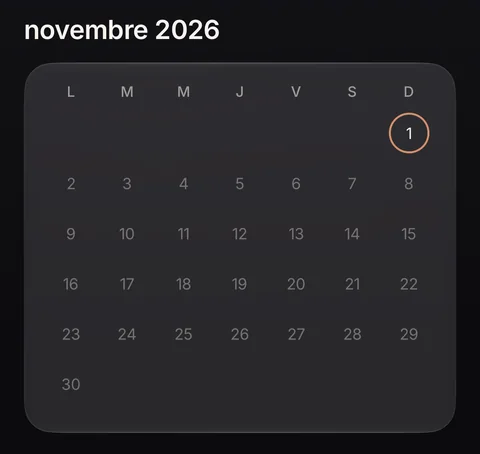
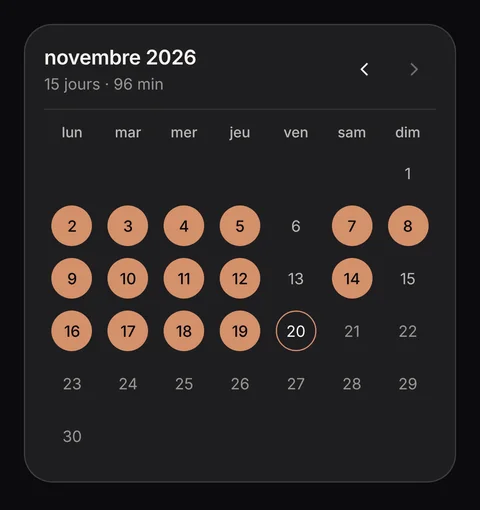
feat(site): étoiles sur les avis et calendrier du Profil avec des séances
Retouches demandées par le propriétaire après lecture de l'aperçu sur iPhone.

- Avis : cinq étoiles en émoji au-dessus de chaque avis et devant la note
  « 5,0 sur 5 · 8 notes » (exact : une moyenne de 5,0 sur huit notes impose
  huit notes de cinq étoiles) ; lues « 5 étoiles sur 5 » par les lecteurs
  d'écran.
- Calendrier (#suivi) : le calendrier vide est remplacé par une image
  reconstituée d'après le code de l'app 1.4.0 (MonthlyCalendar, CardHeader,
  carte de verre) : quinze jours de séance en disques sable, aujourd'hui
  entouré, « 15 jours · 96 min ». Données d'illustration ; générateur et
  rendu dans outils/calendrier-profil/, documentés dans CHIFFRES.md et le
  README ; preparer-images.py ne régénère plus l'ancien recadrage.

Vérifié : Lighthouse mobile 100/100/100/100, axe-core 0 violation (390 et
1440), html-validate 0 erreur, 0 erreur console ni violation CSP.

Claude-Session: https://claude.ai/code/session_01MU4jc2ubSSyuLZmNawkju8

diff --git a/index.html b/index.html
@@ -228,7 +228,7 @@
 </dl>
 </div>
 <div class="suivi__scene" role="group" aria-label="Deux vues de l’app">
-<figure class="volet volet--calendrier"><img src="/assets/img/calendrier-480.webp" srcset="/assets/img/calendrier-480.webp 480w, /assets/img/calendrier-720.webp 720w, /assets/img/calendrier-960.webp 960w" sizes="(min-width: 64rem) 30vw, 84vw" width="480" height="454" alt="Profil dans l’app&nbsp;: le calendrier de novembre 2026, aujourd’hui entouré." loading="lazy" decoding="async"></figure>
+<figure class="volet volet--calendrier"><img src="/assets/img/calendrier-480.webp" srcset="/assets/img/calendrier-480.webp 480w, /assets/img/calendrier-720.webp 720w, /assets/img/calendrier-960.webp 960w" sizes="(min-width: 64rem) 30vw, 84vw" width="480" height="510" alt="Profil dans l’app&nbsp;: le calendrier de novembre 2026, quinze jours de séance marqués d’un disque sable, aujourd’hui entouré." loading="lazy" decoding="async"></figure>
 <figure class="volet volet--rappels"><img src="/assets/img/rappels-480.webp" srcset="/assets/img/rappels-480.webp 480w, /assets/img/rappels-960.webp 960w" sizes="(min-width: 64rem) 26vw, 76vw" width="480" height="225" alt="Horaires des rappels dans l’app&nbsp;: rappel du matin 09:00, rappel du midi 13:00, rappel du soir 20:00." loading="lazy" decoding="async"></figure>
 </div>
 </div>
@@ -238,14 +238,16 @@
 <div class="conteneur avis__bloc">
 <h2 class="titre" id="titre-avis">Les avis sur l’App&nbsp;Store.</h2>
 <figure class="citation citation--grande" data-impeccable-ignore="tight-leading">
+<p class="etoiles"><span role="img" aria-label="5 étoiles sur 5">⭐⭐⭐⭐⭐</span></p>
 <blockquote><p>«&nbsp;Excellente application&nbsp;! Très intuitive, facile <span class="insecable">à utiliser</span> et vraiment pratique au quotidien.&nbsp;[…]&nbsp;»</p></blockquote>
 <figcaption>Rose88rjkg&nbsp;· avis <span class="groupe">App Store (France)&nbsp;· <span class="insecable">19 mai 2026</span></span></figcaption>
 </figure>
 <figure class="citation">
+<p class="etoiles"><span role="img" aria-label="5 étoiles sur 5">⭐⭐⭐⭐⭐</span></p>
 <blockquote><p>«&nbsp;On oublie de respirer de prendre le temps…&nbsp;»</p></blockquote>
 <figcaption>Wario513&nbsp;· extrait d’un avis <span class="groupe">App Store (France)&nbsp;· <span class="insecable">21 mai 2026</span></span></figcaption>
 </figure>
-<p class="avis__note num">5,0 sur 5&nbsp;· 8&nbsp;notes&nbsp;· App Store France&nbsp;· <span class="groupe">relevé le <span class="insecable">4 novembre 2026</span></span></p>
+<p class="avis__note num"><span class="etoiles etoiles--note" role="img" aria-label="5 étoiles sur 5">⭐⭐⭐⭐⭐</span> 5,0 sur 5&nbsp;· 8&nbsp;notes&nbsp;· App Store France&nbsp;· <span class="groupe">relevé le <span class="insecable">4 novembre 2026</span></span></p>
 <p class="avis__appel"><a class="appel" href="https://apps.apple.com/app/id6763119413">Télécharger Alvéo sur l’App&nbsp;Store<svg class="ico" aria-hidden="true"><use href="#fleche"/></svg></a></p>
 <p class="avis__mention">Avis et note publiés sur l’App Store (France), cités mot pour mot, en extrait&nbsp;; ils ne sont pas vérifiés par l’éditeur.</p>
 </div>

diff --git a/styles.css b/styles.css
@@ -475,6 +475,8 @@ button{margin:0;padding:0;border:0;background:none;color:inherit;font:inherit;cu
 .citation figcaption{margin-top:1rem;font-size:var(--t-petit);color:var(--texte-3)}
 .citation--grande{margin-top:1rem}
 .avis__note{font-size:var(--t-corps);color:var(--texte-1)}
+.etoiles{font-family:"Apple Color Emoji","Segoe UI Emoji","Noto Color Emoji",sans-serif;font-size:1.25rem;line-height:1;letter-spacing:.12em;margin-bottom:.875rem}
+.etoiles--note{display:inline-block;font-size:1em;letter-spacing:.06em;margin:0 .375rem 0 0;vertical-align:-.08em}
 .avis__appel{margin-top:-1rem}
 .avis__mention{font-size:var(--t-micro);line-height:1.5;color:var(--texte-3);max-width:52ch}
 @media (min-width:64rem){.avis__bloc{grid-template-columns:repeat(12,minmax(0,1fr));column-gap:var(--g)}.avis__bloc > .titre{grid-column:1/13}.citation--grande{grid-column:1/8;grid-row:2/5}.citation:not(.citation--grande){grid-column:8/13;grid-row:2;align-self:start;margin-top:1rem}.avis__note{grid-column:8/13;grid-row:3;align-self:end}.avis__appel{grid-column:8/13;grid-row:4;align-self:start;margin-top:0}.avis__mention{grid-column:1/8}}

diff --git a/outils/calendrier-profil/rendre.js b/outils/calendrier-profil/rendre.js
@@ -1,0 +1,12 @@
+// Rend calendrier.html (écrit par generer.py) en PNG à 3× : node rendre.js <dossier>
+const { chromium } = require('playwright');
+(async () => {
+  const b = await chromium.launch();
+  const p = await b.newPage({ viewport: { width: 402, height: 600 }, deviceScaleFactor: 3 });
+  await p.goto('file://' + process.argv[2] + '/calendrier.html');
+  await p.evaluate(() => document.fonts.ready);
+  const el = await p.$('#ecran');
+  await el.screenshot({ path: process.argv[2] + '/calendrier@3x.png' });
+  const box = await el.boundingBox(); console.log('taille css', box.width, box.height);
+  await b.close();
+})();

diff --git a/outils/calendrier-profil/generer.py b/outils/calendrier-profil/generer.py
@@ -1,0 +1,90 @@
+#!/usr/bin/env python3
+"""Calendrier du Profil (app 1.4.0) avec des jours de séance, pour #suivi.
+
+Reconstitution fidèle de components/profile/MonthlyCalendar.tsx, components/ui/CardHeader.tsx et de la
+carte de verre (components/ui/Card.tsx, GlassSurface « cardLg ») du dépôt de l'app : jour pratiqué = disque
+sable plein #D4906B, chiffre #0C0B0E en Inter 500 ; aujourd'hui = anneau sable de 1,5 pt ; jours passés sans
+séance en texte secondaire, futurs en tertiaire ; libellés « lun … dim » en Inter 500 12 pt ; rangées de 44 pt,
+disques de 34 pt ; titre « novembre 2026 » en Inter 600 17 pt, méta « N jours · M min » en tertiaire, chevrons
+lucide 18 pt (mois suivant estompé). Écran de 402 pt (iPhone), gouttière de 20 pt, fond #0C0B0E.
+Données d'illustration (aucune vraie donnée d'utilisateur) : aujourd'hui = vendredi 20 novembre 2026.
+
+Usage : python3 generer.py <dossier des TTF Inter de l'app> <dossier de sortie>
+  (TTF : node_modules/@expo-google-fonts/inter/{400Regular,500Medium,600SemiBold}/ dans le dépôt de l'app)
+puis : node rendre.js <dossier de sortie>  → calendrier@3x.png (1206 px de large), puis WebP 480/720/960
+(qualité 84) dans assets/img/calendrier-*.webp.
+"""
+import calendar
+import datetime
+import os
+import shutil
+import sys
+
+PRATIQUES = {2, 3, 4, 5, 7, 8, 9, 10, 11, 12, 14, 16, 17, 18, 19}
+AUJOURDHUI = 20
+ANNEE, MOIS = 2026, 11
+MINUTES = 96  # total d'illustration des 15 jours (séances de 1 à 15 min)
+
+polices, sortie = sys.argv[1], sys.argv[2]
+os.makedirs(sortie, exist_ok=True)
+for sous, nom in (("400Regular", "Inter_400Regular.ttf"), ("500Medium", "Inter_500Medium.ttf"), ("600SemiBold", "Inter_600SemiBold.ttf")):
+    src = os.path.join(polices, sous, nom)
+    shutil.copy(src if os.path.exists(src) else os.path.join(polices, nom), sortie)
+
+debut = datetime.date(ANNEE, MOIS, 1).weekday()  # lundi = 0
+jours = calendar.monthrange(ANNEE, MOIS)[1]
+cases = [None] * debut + list(range(1, jours + 1))
+while len(cases) % 7:
+    cases.append(None)
+rangees = [cases[i:i + 7] for i in range(0, len(cases), 7)]
+
+
+def case(j):
+    if j is None:
+        return '<div class="cell"></div>'
+    if j > AUJOURDHUI:
+        return f'<div class="cell"><div class="disc"><span class="fn ter">{j}</span></div></div>'
+    if j in PRATIQUES:
+        return f'<div class="cell"><div class="disc done"><span class="fnm inv">{j}</span></div></div>'
+    if j == AUJOURDHUI:
+        return f'<div class="cell"><div class="disc ring"><span class="fn pri">{j}</span></div></div>'
+    return f'<div class="cell"><div class="disc"><span class="fn sec">{j}</span></div></div>'
+
+
+grille = "\n".join('<div class="row">' + "".join(case(j) for j in r) + "</div>" for r in rangees)
+entete = "".join(f'<div class="cell"><span class="c1 sec">{l}</span></div>' for l in "lun,mar,mer,jeu,ven,sam,dim".split(","))
+gauche = '<svg width="18" height="18" viewBox="0 0 24 24" fill="none" stroke="#F7F3EE" stroke-width="2" stroke-linecap="round" stroke-linejoin="round"><path d="m15 18-6-6 6-6"/></svg>'
+droite = '<svg width="18" height="18" viewBox="0 0 24 24" fill="none" stroke="rgba(247,243,238,0.36)" stroke-width="2" stroke-linecap="round" stroke-linejoin="round"><path d="m9 18 6-6-6-6"/></svg>'
+html = f"""<!doctype html><html lang="fr"><head><meta charset="utf-8"><style>
+@font-face{{font-family:I;font-weight:400;src:url(Inter_400Regular.ttf)}}
+@font-face{{font-family:I;font-weight:500;src:url(Inter_500Medium.ttf)}}
+@font-face{{font-family:I;font-weight:600;src:url(Inter_600SemiBold.ttf)}}
+*{{box-sizing:border-box;margin:0;padding:0}}
+html,body{{background:#0C0B0E;-webkit-font-smoothing:antialiased}}
+#ecran{{width:402px;padding:20px 20px 22px;background:#0C0B0E}}
+.card{{border-radius:24px;background:rgba(255,255,255,.08);border:.334px solid rgba(255,255,255,.14);padding:16px;font-family:I}}
+.hrow{{display:flex;align-items:center;gap:12px}}
+.htxt{{flex:1}}
+.headline{{font:600 17px/22px I;letter-spacing:-.2px;color:#F7F3EE}}
+.meta{{font:400 13px/18px I;color:rgba(247,243,238,.56);margin-top:2px}}
+.trail{{display:flex;gap:6px}}
+.ib{{width:36px;height:36px;display:flex;align-items:center;justify-content:center}}
+.sep{{height:.334px;background:rgba(255,246,232,.10);margin:12px 0}}
+.headerRow{{display:flex;margin-bottom:4px}}
+.row{{display:flex;height:44px}}
+.cell{{flex:1;display:flex;align-items:center;justify-content:center}}
+.disc{{width:34px;height:34px;border-radius:17px;display:flex;align-items:center;justify-content:center}}
+.done{{background:#D4906B}}
+.ring{{border:1.5px solid #D4906B}}
+.fn{{font:400 13px/18px I}} .fnm{{font:500 13px/18px I}} .c1{{font:500 12px/16px I}}
+.pri{{color:#F7F3EE}} .sec{{color:rgba(247,243,238,.72)}} .ter{{color:rgba(247,243,238,.56)}} .inv{{color:#0C0B0E}}
+</style></head><body><div id="ecran"><div class="card">
+<div class="hrow"><div class="htxt"><div class="headline">novembre {ANNEE}</div><div class="meta">{len(PRATIQUES)} jours · {MINUTES} min</div></div>
+<div class="trail"><div class="ib">{gauche}</div><div class="ib">{droite}</div></div></div>
+<div class="sep"></div>
+<div class="headerRow">{entete}</div>
+{grille}
+</div></div></body></html>"""
+with open(os.path.join(sortie, "calendrier.html"), "w", encoding="utf-8") as f:
+    f.write(html)
+print(os.path.join(sortie, "calendrier.html"), len(PRATIQUES), "jours")

diff --git a/outils/preparer-images.py b/outils/preparer-images.py
@@ -33,8 +33,8 @@ from PIL import Image, ImageFilter
 # Inspire » sur la page (la séance) : l'orbe n'apparaît pas deux fois à l'identique.
 # - accueil : coupé au-dessus de la description du programme (« s'endormir plus vite », § 10.2) ;
 # - durée : le sélecteur 1, 2, 5, 10, 15 min, coupé au-dessus de la carte du programme (même raison) ;
-# - calendrier : le calendrier du Profil seul, présent dans la version en ligne et dans la suivante (les jalons
-#   affichés dessous changent en 1.4.0 : 7 au lieu de 3) ; à remplacer par une capture 1.4.0 à sa sortie ;
+# - calendrier : n'est plus tiré d'une capture ; il est reconstitué d'après le code de l'app 1.4.0, avec des jours
+#   de séance (demande du propriétaire, 8 novembre 2026) : voir outils/calendrier-profil/ ;
 # - essai : le bas de l'intro d'une séance Alvéo+, « Essayer 30 secondes » et « Plus tard », sans le texte
 #   d'introduction ni l'« effet physiologique » (allégations, § 10.2), et sous la pastille de l'aperçu, dont le
 #   libellé est coupé sur la capture (« SÉANCE COMPLÈ… »).
@@ -47,12 +47,11 @@ ECRANS = {
     "e-seance": ("24-seance-chrome-visible.png", (0, 195, 1206, 2375), (440, 660, 880)),
     "e-duree": ("10-accueil-duree.png", (0, 130, 1206, 2030), (440, 660, 880)),
     "e-reglages": ("26-seance-feuille-reglages.png", (0, 150, 1206, 2330), (440, 660, 880)),
-    "calendrier": ("18-profil-bas.png", (0, 250, 1206, 1390), (480, 720, 960)),
     "essai": ("20-seance-intro.png", (0, 2104, 1206, 2452), (480, 960)),
     # Le seul groupe des trois créneaux de rappel, recadré à ses bords (sans « Choisis jusqu'à 3 moments »).
     "rappels": ("34-horaires-rappels.png", (60, 797, 1146, 1305), (480, 960)),
 }
-VOLETS = ("calendrier", "essai", "rappels")
+VOLETS = ("essai", "rappels")  # calendrier : outils/calendrier-profil/
 
 # Rayons de l'orbe : seize rayons irréguliers (début, crête, fin en degrés depuis midi, alpha de crête),
 # crème #F0D5BC, masque radial, flou cuit dans le fichier ; immobiles, ils respirent avec l'orbe.

diff --git a/CHIFFRES.md b/CHIFFRES.md
@@ -59,7 +59,7 @@ d'usage changent (« Avant de prendre la parole », « Avant le sport ») ; écr
 |---|---|---|
 | Aperçu de 30 secondes de chaque séance, sans limite | `app/session.tsx:383-417`, `app/session-intro.tsx:151-177` | `#seances .intro` ; `#seances .volet--essai` (capture du bas de l'intro d'une séance Alvéo+ : « Essayer 30 secondes », « Plus tard ») ; `.offre` Gratuit ; FAQ 1 |
 | Trois rappels (matin, midi, soir), heures au choix, désactivés par défaut ; 09:00, 13:00, 20:00 sur la capture | `lib/notifications.ts:99-121`, `lib/preferences.ts:57` | `#suivi .fait` « Des rappels, si tu veux » ; texte alternatif de `#suivi .volet--rappels` (le groupe des trois créneaux seulement : l'écran entier porte « Choisis jusqu'à 3 moments », écart de texte relevé par la fiche de vérité) |
-| Calendrier du Profil (novembre 2026, aujourd'hui entouré) | présent dans la version en ligne et dans la suivante ; **capture à remplacer à la sortie de la 1.4.0** (Profil refondu ; les jalons affichés sous le calendrier passent de 3 à 7, d'où le recadrage sur le calendrier seul) | `#suivi .volet--calendrier` et son texte alternatif |
+| Calendrier du Profil (novembre 2026 : 15 jours de séance en disques sable, aujourd'hui le 20 entouré, « 15 jours · 96 min ») | **image reconstituée**, pas une capture : rendu fidèle de `components/profile/MonthlyCalendar.tsx`, `CardHeader` et de la carte de verre de l'app 1.4.0, avec des données d'illustration (demande du propriétaire, 8 novembre 2026) ; source : `outils/calendrier-profil/` | `#suivi .volet--calendrier` et son texte alternatif |
 | Un favori gratuit, illimités avec Alvéo+ | `lib/favorites.ts:4`, `:31` | `.offre` Gratuit ; `.offre--plus` ; FAQ 1 et 2 |
 | Données RevenueCat dès l'ouverture (identifiant aléatoire, IDFV, modèle, versions, dates, IP pour le pays) | fiche de vérité § 6.1 | FAQ 5 |
 

diff --git a/README.md b/README.md
@@ -190,8 +190,11 @@ réduit en direct). Changements :
   la description du programme, 1206 × 2180), séance (24, 1206 × 2180), durée (10 : le sélecteur 1, 2, 5, 10, 15 min,
   coupé au-dessus de la carte du programme, 1206 × 1900), réglages en séance (26, 1206 × 2180). **Un seul écran
   « orbe + Inspire »** sur la page (la séance) : l'orbe n'apparaît pas deux fois à l'identique.
-- **Volets** (une partie d'écran recadrée, WebP qualité 84) : le calendrier du Profil (18, recadré sur le calendrier
-  seul, présent dans les deux versions de l'app ; à remplacer par une capture 1.4.0 à sa sortie), le bas de l'intro
+- **Avis** : cinq étoiles en émoji (⭐, demande du propriétaire) au-dessus de chaque avis et devant la note ;
+  exact, car une moyenne de 5,0 sur 8 notes impose que les huit notes soient de 5 étoiles. Elles sont lues
+  « 5 étoiles sur 5 » par les lecteurs d'écran (`role="img"`) et s'affichent avec la police d'émoji du système.
+- **Volets** (une partie d'écran recadrée, WebP qualité 84) : le calendrier du Profil (image reconstituée d'après le code de
+  l'app 1.4.0, avec quinze jours de séance d'illustration : `outils/calendrier-profil/`), le bas de l'intro
   d'une séance Alvéo+ (20 : « Essayer 30 secondes », « Plus tard », sans le texte d'introduction ni l'« effet
   physiologique », allégations, et sous la pastille de l'aperçu, dont le libellé est coupé sur la capture), les
   rappels (34, le seul groupe des trois créneaux : l'écran entier porte « Choisis jusqu'à 3 moments », écart de texte
